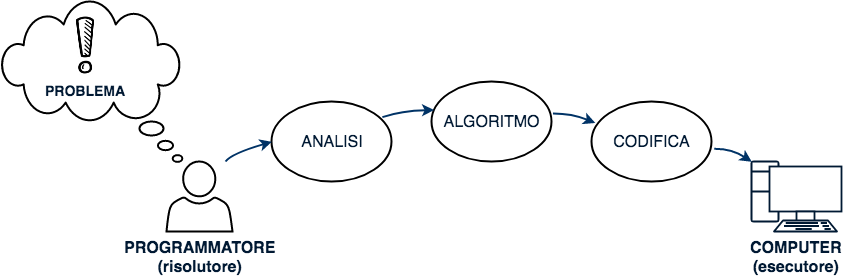
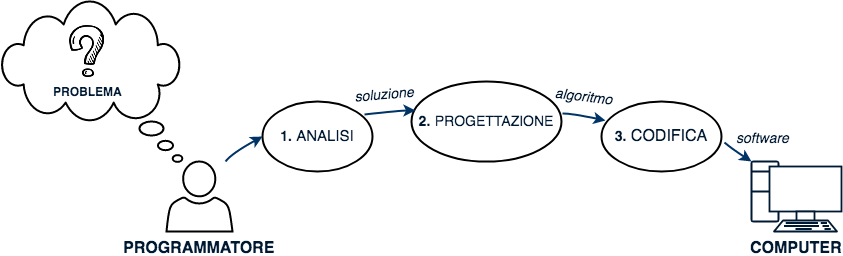
Introduzione e analisi problema

diff --git a/Books/LibroLiceo/algoritmi.md b/Books/LibroLiceo/algoritmi.md
@@ -1,47 +1,120 @@
 # Cos’é un algoritmo
 
-> **Algoritmo:** in inglese *algorithm (/ˈælɡəˌrɪðəm/)*, procedimento che risolve un determinato problema attraverso un numero finito e ordinato di passi (azioni, istruzioni).
+L'informatica, tramite l'uso del computer, ci permette di risolvere problemi del mondo reale. Problemi che senza l'uso del computer non sarebbero risolvibili. 
 
-## Risolutore ed esecutore
+Questo perchè il  computer ha due caratteristiche fondamentali:
+$$
+\text{CAPACITA' DI CALCOLO}+\text{CAPACITA' DI MEMORIZZARE DATI}
+$$
+Rispetto alla mente umana è in grado di svolgere calcoli in maniera enormemente più rapida ed è in grado di memorizzare  dati in quantità teoricamente illimitata.
 
-Il computer ha due importanti caratteristiche: il calcolo e la memorizzazione. Rispetto alla mente umana è in grado di svolgere calcoli in maniera enormemente più rapida ed è in grado di memorizzare una quantità di dati teoricamente illimitata. Tuttavia il computer ha un grande limite: non è in grado di pensare in maniera autonoma; questo significa che **non può** risolvere problemi per cui non è stato programmato.
+Il computer però ha un grande limite: <u>non è in grado di pensare in maniera autonoma</u>; questo significa che non può risolvere problemi che non conosce, problemi per cui non è stato programmato.
 
-> **Il computer risolve unicamente problemi che l'uomo ha già risolto.**Tuttavia lo fa in maniera rapida e precisa, in tempi, in genere, brevissimi.
+Ha quindi bisogno di qualcuno che gli dica come fare. Questo qualcuno è il <u>programmatore</u> (da con confondere con l'utente generico che utilizza il computer).
 
-Il computer è dunque un semplice ESECUTORE di istruzioni che gli sono state impartite da una determinata persona chiamata RISOLUTORE. Entrambe le figure sono indispensabili per la risoluzione rapida e corretta di un problema.
-
- L'ESECUTORE senza il RISOLUTORE non potrebbe mai risolvere un problema perchè non conosce la corretta sequenza di istruzioni da svolgere. Al tempo stesso anche Il RISOLUTORE senza l'ESECUTORE potrebbe non arrivare mai alla soluzione perchè potrebbe impiegare un tempo enorme per svolgere i calcoli richiesti.
-
-> **Programmatore:** persona che insegna al computer a saper fare qualcosa
+> **Programmatore:** in inglese *programmer (/ˈprəʊgræməʳ/)* , *developer (/dɪˈvɛləpə/)*, *software engineer (/ˈsɒftˌwɛə ˌɛndʒɪˈnɪə/)*, persona che insegna al computer a saper fare qualcosa.
 
 $$
 \text{Programmatore} \ne \text{Utente del computer}
 $$
 
-> **Utente del computer:** colui che utilizza il computer, che sa fare qualcosa con esso 
+> **Utente del computer:** in inglese *end user (/ɛnd ˈjuːzə/)*, colui che utilizza il computer, che sa fare qualcosa con esso. 
+
+Il programmatore indica al computer come fare per trovare la soluzione, il computer esegue le istruzioni e risolve il problema. 
+
+> **Il computer risolve unicamente problemi che l'uomo ha già risolto.**Tuttavia lo fa in maniera rapida e precisa.
+
+## Risolutore ed esecutore
+
+Possiamo pensare all'uomo e al computer come a due parti che collaborano insieme per risolvere un problema. In generale queste due figure prendono il nome di RISOLUTORE ed ESECUTORE.
 
 
+
+![Algoritmi15](images/Algoritmi15.png)
+
+
+
+> In generale, **l'esecutore** è colui che esegue in maniera rigorosa le istruzioni che gli sono state impartite dal RISOLUTORE. 
+
+> In generale, **il risolutore** è colui che risolve un problema trovando la giusta sequenza di istruzioni da svolgere per arrivare alla soluzione.
+
+Come è facile capire, RISOLUTORE e ESECUTORE  sono indispensabili uno all'altro ed entrambi concorrono attivamente alla risoluzione del problema.
+
+*Esempio Apollo 13*
+
+## L'algoritmo
+
+Il risolutore per insegnare correttamente all'esecutore a risolvere il problema, ha bisogno di fornirgli un elenco ordinato e ben preciso di azioni da svolgere. Questo elenco prende il nome di **algoritmo**.
+
+> **Algoritmo:** in inglese *algorithm (/ˈælɡəˌrɪðəm/)*, procedimento che risolve un determinato problema attraverso un numero finito e ordinato di passi (azioni, istruzioni).
+
+Un algoritmo per essere definito tale deve possedere le seguenti caratteristiche:
+
+- finitezza
+- non ambiguità
+- generalità
+- efficienza
 
 ## Fasi di risoluzione di un problema
 
+Scrivere un algoritmo per insegnare al computer a "saper fare" qualcosa necessita, in atto pratico, di una serie di operazioni da dover svolgere. L'algoritmo è solo la parte centrale di una serie di attività che permettono al programmatore di risolvere il problema in tutte le sue parti. L'algoritmo viene preceduto da una fase di analisi del problema e viene seguito da una fase di codifica in cui sarà convertito in codice di programmazione per poter dar vita al **software**.
+
 ![Algoritmi10](images/Algoritmi10.png)
 
-| 1. ANALISI                           | 2. ALGORITMO                                              | 3. CODIFICA                                                 |
-| ------------------------------------ | --------------------------------------------------------- | ----------------------------------------------------------- |
-| Identificare i dati in **INPUT**     | Creare l'**algoritmo**                                    | Scrittura del **codice** in un linguaggio di programmazione |
-| Identificare i dati in **OUTPUT**    | Verificare correttezza dell'algoritmo tramite **tracing** | **Compilazione** del codice                                 |
-| Trovare una **strategia risolutiva** |                                                           | **Testing** del codice                                      |
+| 1. ANALISI                            | 2. PROGETTAZIONE                         | 3. CODIFICA                                             |
+| ------------------------------------- | ---------------------------------------- | ------------------------------------------------------- |
+| Identificazione dati in INPUT         | Progettazione e scrittura dell'algoritmo | Scrittura del codice in un linguaggio di programmazione |
+| Identificazione dati in OUTPUT        | Testing dell'algoritmo                   | Compilazione del codice                                 |
+| Creazione di una strategia risolutiva |                                          | Testing del codice                                      |
 
-
+L'analisi produce una **strategia risolutiva** &#8594; in base alla strategia risolutiva si progetta un **algoritmo** &#8594; l'algoritmo viene codificato in un linguaggio di programmazione per ottenere un **software**.
 
 ## L’analisi del problema
 
+Svolgere l'analisi del problema significa innanzitutto <u>capire</u> il problema. Una volta capito il problema è possibile identificarne i dati in INPUT e i dati in OUTPUT  e quindi individuare e descrivere un metodo effettivo di soluzione. 
 
-### Input
+> **Identificare i dati in INPUT:** determinare i parametri del problema.
 
-### Output
-### Strategia risolutiva
+> **Identificare i dati in OUTPUT:** determinare la o le soluzioni del problema (le incognite).
+
+> **Individuare una strategia risolutiva:** saper modelizzare o descrivere una soluzione che permetta di risolvere il problema in maniera corretta.
+
+*Analisi - Esempio 1*
+Problema: date base e altezza di un triangolo determinare l'area.
+Soluzione:
+$$
+Input: b,h \in \R \enspace|\enspace b,h>0\\
+Output: Area \in \R \\ 
+SR: Area = b*h
+$$
+
+
+*Analisi - Esempio 2*
+Problema: date le misure dei lati di un triangolo determinare il tipo di triangolo (scaleno, isoscele, equilatero).
+Soluzione:
+$$
+\begin{align*}
+Input:\enspace a,b,c \in \R \enspace|\enspace a,b,c>0\\
+Output:\enspace tipo \in \{scaleno,isoscele,equilatero\}\\
+SR:\enspace (a=b)\land(b=c) \implies equilatero\\
+   \enspace altrimenti \enspace (a=b)\lor(a=c)\lor(b=c) \implies isoscele\\
+   \enspace altrimenti \implies scaleno
+\end{align*}
+$$
+
+
+*Analisi - Esempio 3*
+Problema: dati tre segmenti determinare se con essi sia possibile costruire un triangolo.
+Soluzione:
+$$
+Input: a,b,c \in \R \enspace|\enspace a,b,c>0\\
+Output: esito \in \{Vero,Falso\}\\
+SR: (a<b+c) \land (b<a+c) \land (c<a+b)
+$$
+
 ## Progettazione dell’algoritmo
+
+Progettare un algoritmo significa, partendo dall'analisi svolta, creare un elenco di istruzione che implementino la strategia risolutiva e permettano all'algoritmo di funzionare con qualsiasi input fornito. 
 
 
 ## Codifica tramite linguaggio di programmazione
@@ -104,7 +177,7 @@ Nella maggior parte dei linguaggi di programmazione al primo elemento di un arra
 
 Un array di lunghezza **n** ($n \in \mathbb{ N_{0} }$) è un array composto da **n** elementi dove il primo elemento avrà indice **0** mentre l'ultimo avrà indice **n-1** .
 
-**N.B.** ogni posizione dell'array da 0 a n-1 viene associata ad una variabile. <u>Non esiste</u> una posizione non associata ad uno spazio di memoria.
+**N.B.** ogni posizione dell'array da 0 a n-1 viene associata ad una variabile. <u>Non esiste</u> una posizione non associata ad alcuna variabile.
 
 Per identificare un elemento dell'array si utilizza la seguente notazione: 
 $$
